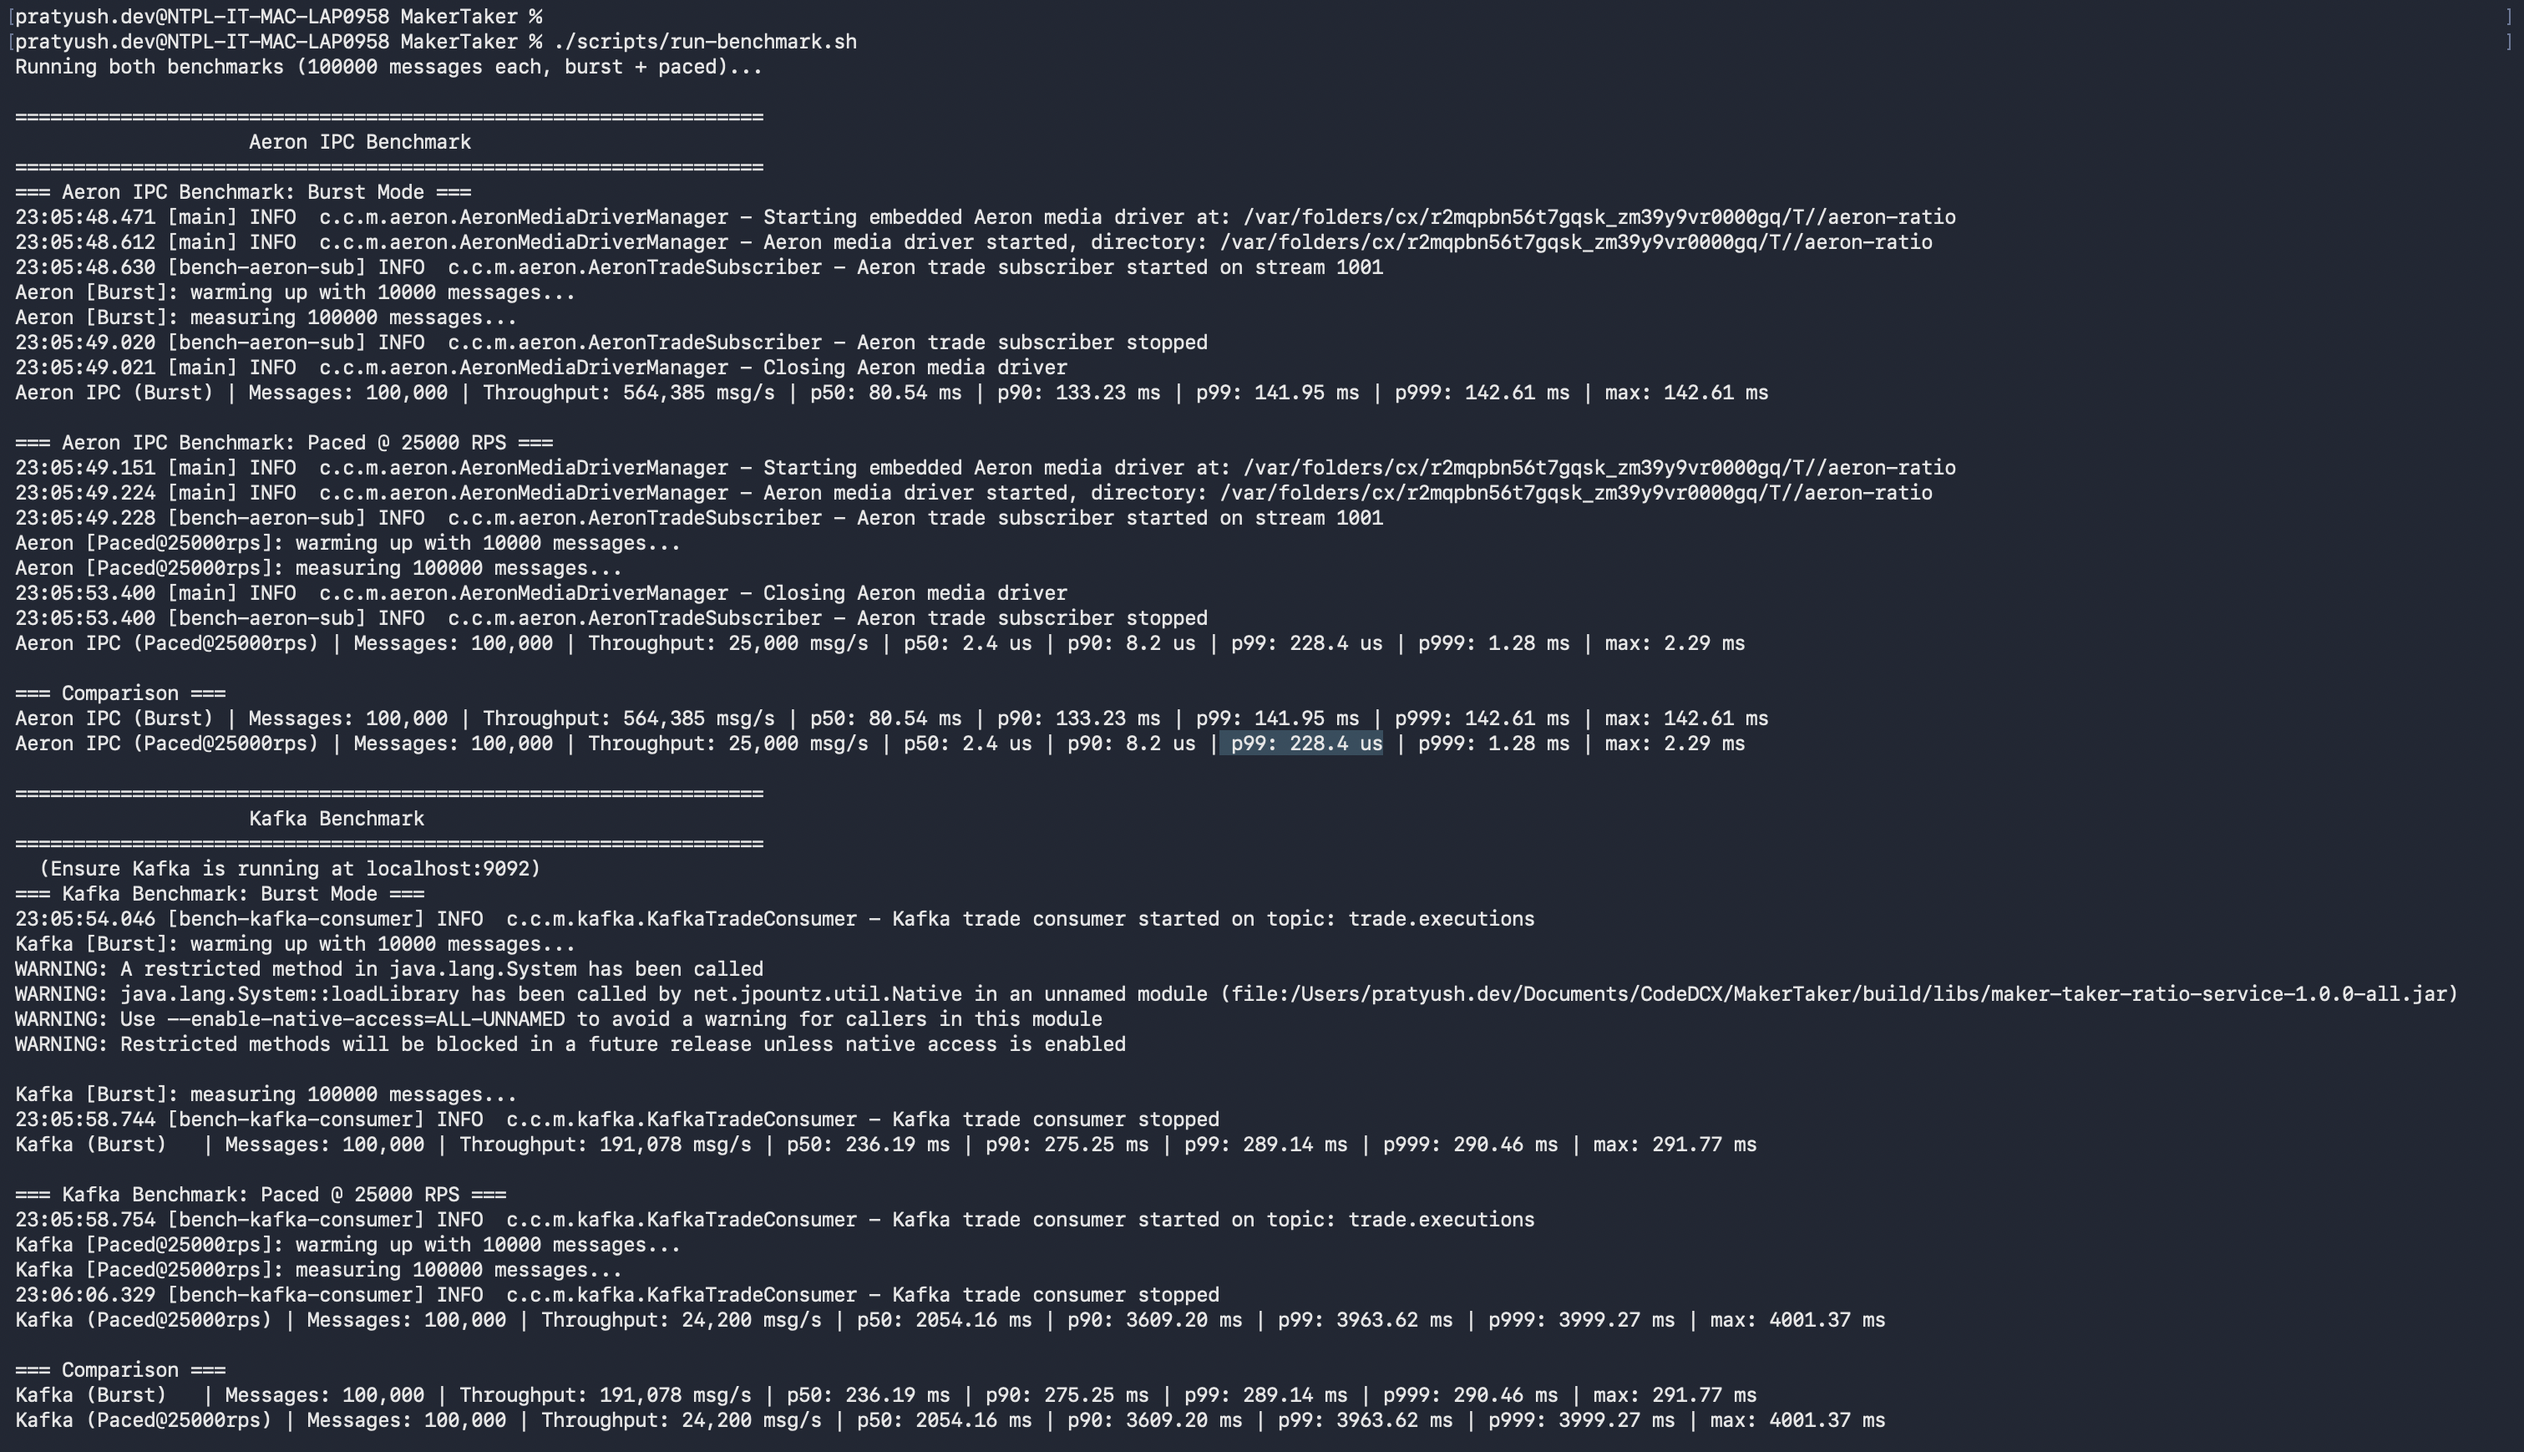
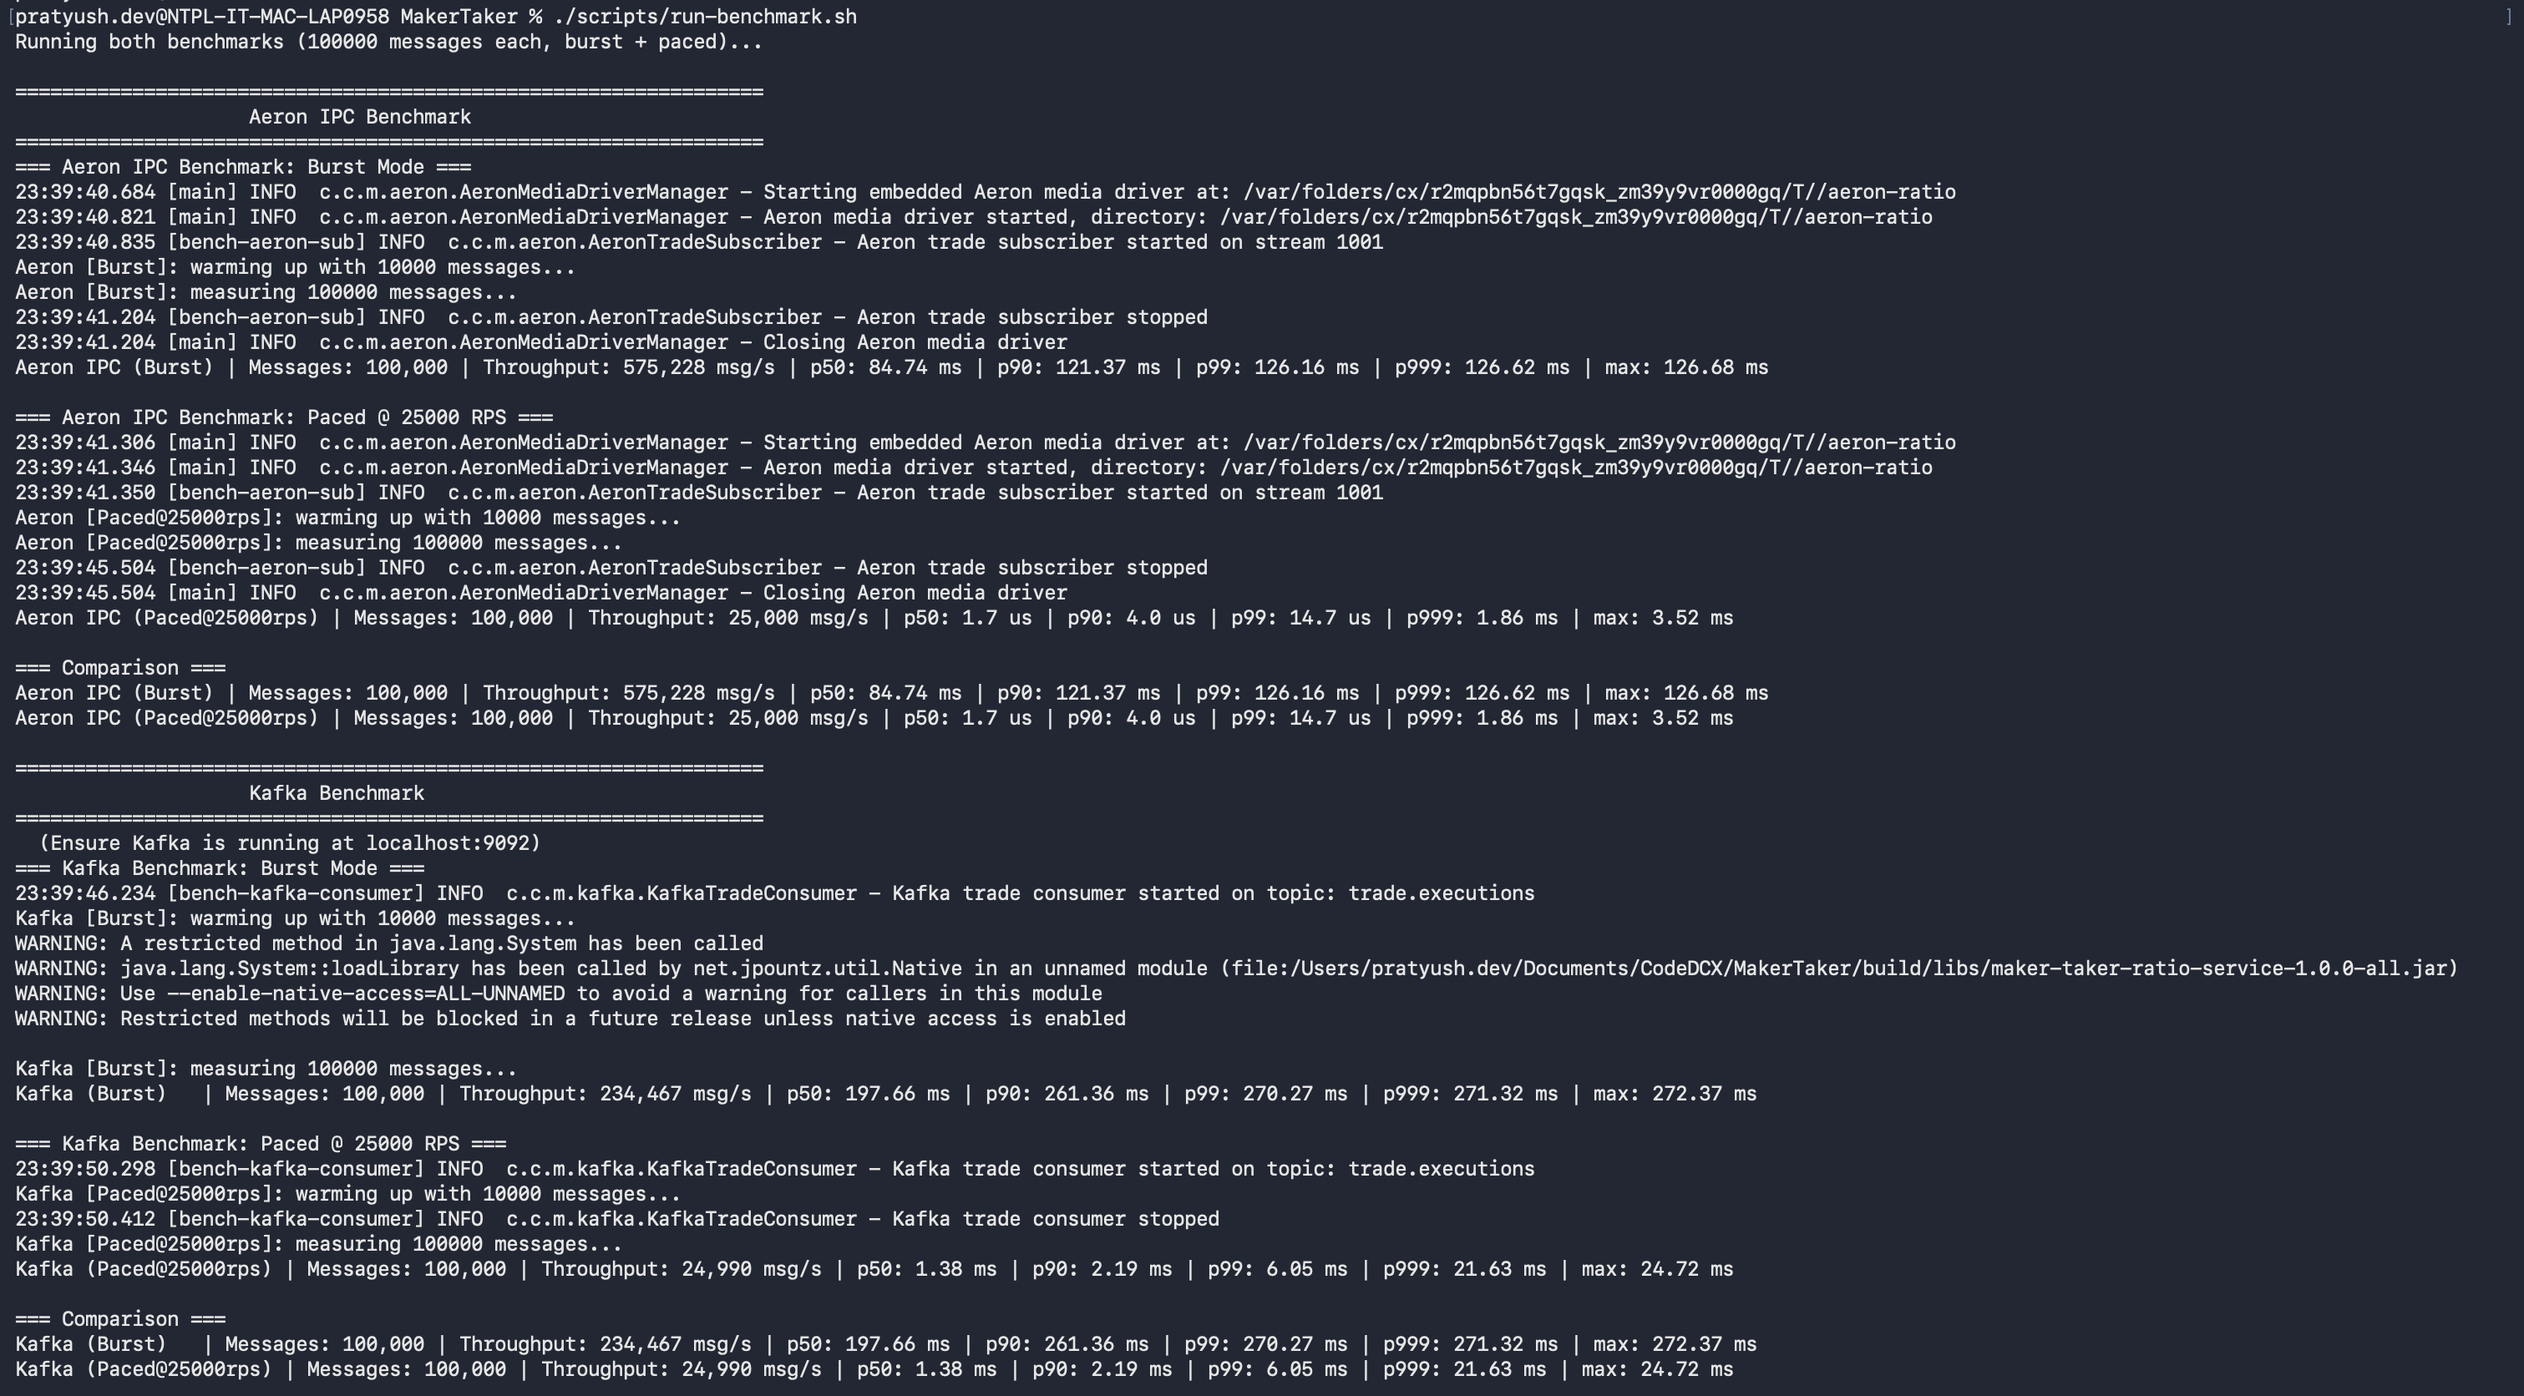
kafka benchmark fixed

Changed region(s): [[0.0, 0.0, 0.9643, 0.9952]]

diff --git a/src/main/java/com/coindcx/makertaker/benchmark/KafkaBenchmark.java b/src/main/java/com/coindcx/makertaker/benchmark/KafkaBenchmark.java
@@ -26,6 +26,8 @@ import java.nio.ByteBuffer;
 import java.time.Duration;
 import java.util.Collections;
 import java.util.Properties;
+import java.util.concurrent.CountDownLatch;
+import java.util.concurrent.TimeUnit;
 import java.util.concurrent.atomic.AtomicLong;
 
 public final class KafkaBenchmark {
@@ -64,7 +66,7 @@ public final class KafkaBenchmark {
 
         System.out.println("Kafka [" + mode + "]: warming up with " + WARMUP_COUNT + " messages...");
         for (int i = 0; i < WARMUP_COUNT; i++) {
-            encodeTrade(sendBuffer, headerEncoder, tradeEncoder, i, System.currentTimeMillis());
+            encodeTrade(sendBuffer, headerEncoder, tradeEncoder, i, System.nanoTime());
             int len = MessageHeaderEncoder.ENCODED_LENGTH + tradeEncoder.encodedLength();
             byte[] value = new byte[len];
             sendBuffer.getBytes(0, value);
@@ -82,12 +84,35 @@ public final class KafkaBenchmark {
 
         System.out.println("Kafka [" + mode + "]: measuring " + messageCount + " messages...");
         Histogram histogram = new Histogram(10_000_000_000L, 3);
-        AtomicLong received = new AtomicLong(0);
         int expectedResponses = messageCount * RESPONSES_PER_TRADE;
+        CountDownLatch latch = new CountDownLatch(expectedResponses);
+        AtomicLong received = new AtomicLong(0);
 
-        MessageHeaderDecoder hdrDec = new MessageHeaderDecoder();
-        RatioUpdateDecoder ratioDec = new RatioUpdateDecoder();
-        UnsafeBuffer decodeBuffer = new UnsafeBuffer(new byte[0]);
+        Thread resultThread = new Thread(() -> {
+            MessageHeaderDecoder hdrDec = new MessageHeaderDecoder();
+            RatioUpdateDecoder ratioDec = new RatioUpdateDecoder();
+            UnsafeBuffer decodeBuffer = new UnsafeBuffer(new byte[0]);
+
+            while (received.get() < expectedResponses) {
+                ConsumerRecords<byte[], byte[]> records = resultConsumer.poll(Duration.ofMillis(10));
+                records.forEach(record -> {
+                    long receiveTime = System.nanoTime();
+                    decodeBuffer.wrap(record.value());
+                    hdrDec.wrap(decodeBuffer, 0);
+                    ratioDec.wrap(decodeBuffer, MessageHeaderDecoder.ENCODED_LENGTH,
+                        hdrDec.blockLength(), hdrDec.version());
+                    long sendTimeRead = ratioDec.timestamp();
+                    long latency = receiveTime - sendTimeRead;
+                    if (latency > 0) {
+                        histogram.recordValue(latency);
+                    }
+                    received.incrementAndGet();
+                    latch.countDown();
+                });
+            }
+        }, "bench-kafka-result");
+        resultThread.setDaemon(true);
+        resultThread.start();
 
         long intervalNanos = targetRps > 0 ? 1_000_000_000L / targetRps : 0;
 
@@ -114,25 +139,13 @@ public final class KafkaBenchmark {
         }
         benchProducer.flush();
 
-        long deadline = System.currentTimeMillis() + 30_000;
-        while (received.get() < expectedResponses && System.currentTimeMillis() < deadline) {
-            ConsumerRecords<byte[], byte[]> records = resultConsumer.poll(Duration.ofMillis(50));
-            records.forEach(record -> {
-                long receiveTime = System.nanoTime();
-                decodeBuffer.wrap(record.value());
-                hdrDec.wrap(decodeBuffer, 0);
-                ratioDec.wrap(decodeBuffer, MessageHeaderDecoder.ENCODED_LENGTH,
-                    hdrDec.blockLength(), hdrDec.version());
-                long sendTimeRead = ratioDec.timestamp();
-                long latency = receiveTime - sendTimeRead;
-                if (latency > 0) {
-                    histogram.recordValue(latency);
-                }
-                received.incrementAndGet();
-            });
-        }
-
+        boolean completed = latch.await(60, TimeUnit.SECONDS);
         long elapsedNanos = System.nanoTime() - startNanos;
+
+        if (!completed) {
+            System.out.println("Warning: not all responses received. Got " +
+                received.get() + "/" + expectedResponses);
+        }
 
         tradeConsumer.close();
         ratioProducer.close();
@@ -162,7 +175,7 @@ public final class KafkaBenchmark {
         props.put(ProducerConfig.KEY_SERIALIZER_CLASS_CONFIG, ByteArraySerializer.class.getName());
         props.put(ProducerConfig.VALUE_SERIALIZER_CLASS_CONFIG, ByteArraySerializer.class.getName());
         props.put(ProducerConfig.ACKS_CONFIG, "1");
-        props.put(ProducerConfig.LINGER_MS_CONFIG, "1");
+        props.put(ProducerConfig.LINGER_MS_CONFIG, "0");
         props.put(ProducerConfig.BATCH_SIZE_CONFIG, "16384");
         return new KafkaProducer<>(props);
     }
@@ -175,6 +188,8 @@ public final class KafkaBenchmark {
         props.put(ConsumerConfig.VALUE_DESERIALIZER_CLASS_CONFIG, ByteArrayDeserializer.class.getName());
         props.put(ConsumerConfig.AUTO_OFFSET_RESET_CONFIG, "latest");
         props.put(ConsumerConfig.ENABLE_AUTO_COMMIT_CONFIG, "true");
+        props.put(ConsumerConfig.FETCH_MIN_BYTES_CONFIG, "1");
+        props.put(ConsumerConfig.FETCH_MAX_WAIT_MS_CONFIG, "10");
         KafkaConsumer<byte[], byte[]> consumer = new KafkaConsumer<>(props);
         consumer.subscribe(Collections.singletonList(topic));
         consumer.poll(Duration.ofMillis(100));
